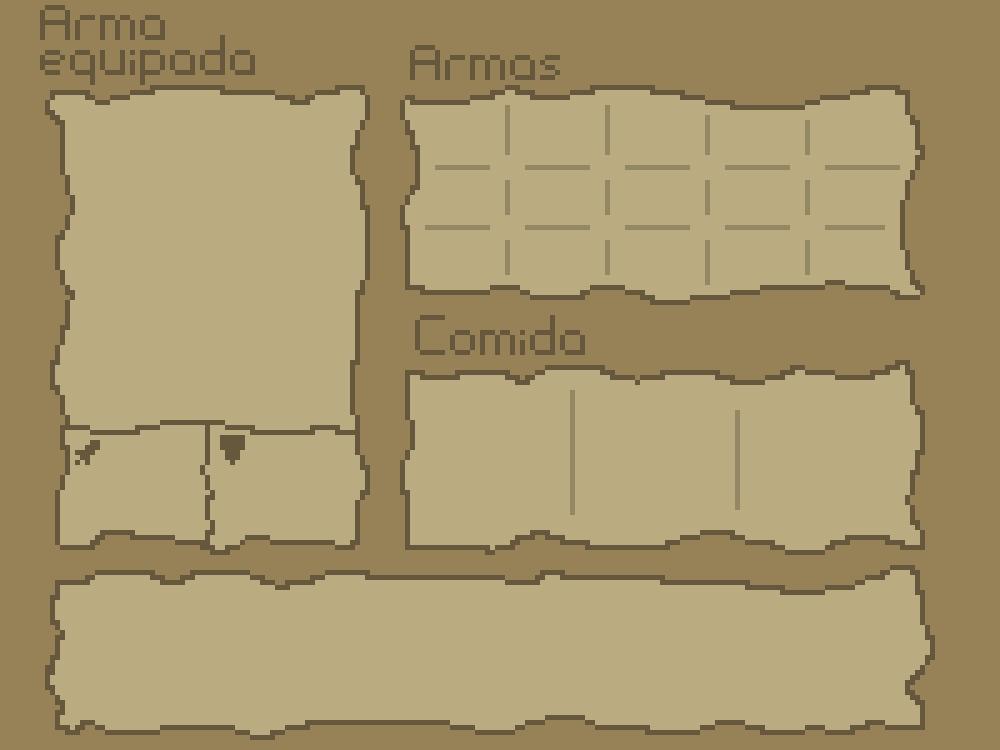
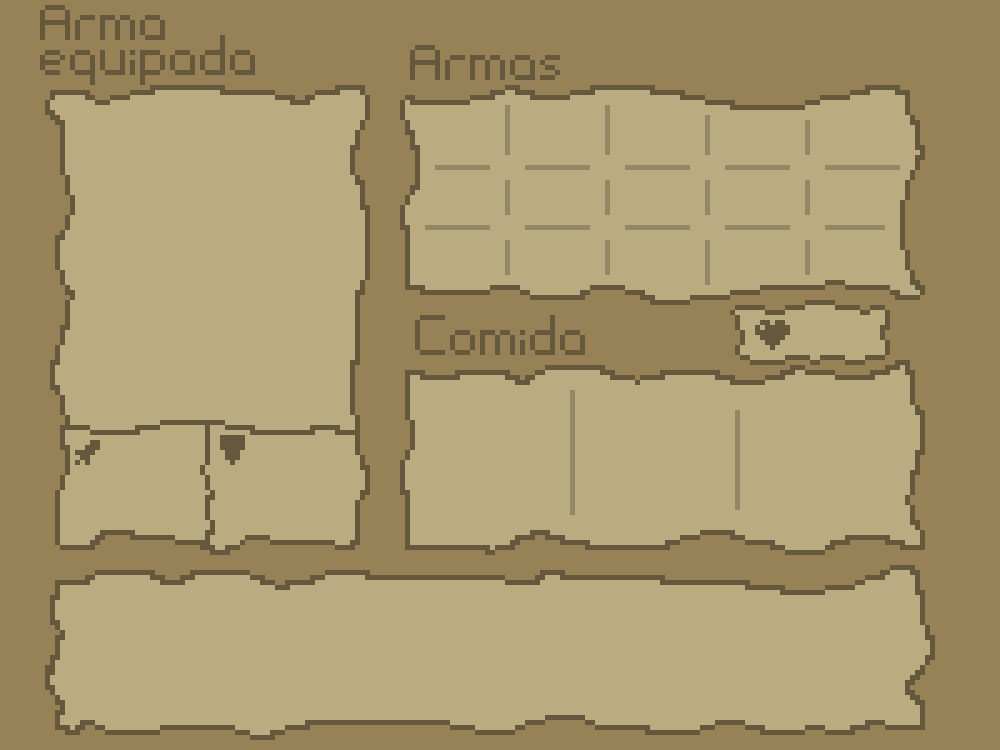
Imgs de items desaparecen, ui y correccioneslógica de item de curación
Ahora los items de curación, al usarse, se borrarán correctamente del inventario, junto a la desaparición de su imagen pero no de sus botones.
Ahora los items de curación mostrarán cuanto recuperan de vida en un nuevo elemento de la interfaz.
Además, se ha quitado el texto que indicaba lo anterior de los items, el texto de las descripciones desaparecerá al dejar de interactuar con el objeto, y se ha comentado código.

Changed region(s): [[0.713, 0.3987, 0.899, 0.4907]]

diff --git a/src/scenes/inventoryScene.js b/src/scenes/inventoryScene.js
@@ -54,6 +54,8 @@ export default class InventoryScene extends Phaser.Scene {
 		this.load.image('caldo', 'assets/scenes/inventory/objects/caldoGallego.png');
 		this.load.image('polbo', 'assets/scenes/inventory/objects/pulpoALaGallega.png');
 		this.load.image('asta', 'assets/scenes/inventory/weapons/astaBandera.png');
+
+		// Recuadro de selección
 		this.load.spritesheet('selected', 'assets/scenes/inventory/selectedItem.png', {frameWidth: 32, frameHeight:32});
 	}
 
@@ -61,15 +63,19 @@ export default class InventoryScene extends Phaser.Scene {
 	* Creación de los elementos de la escena principal de juego
 	*/
 	create() {
-		this.emitter = EventDispatcher.getInstance();
 
 		// BORRAR ESTAS LÍNEAS PARA EL JUEGO FINAL
 		this.inventory.addWeapon('fouc');
 		this.inventory.addWeapon('dagEx');
 		this.inventory.addHealth('polbo');
+		this.inventory.addHealth('caldo');
+		this.inventory.addHealth('bolla');
 
 		// Guardar la escena de la que te han despertado
-		this.events.on('wake', (scene, prev) => {this.previousSceneName = prev});
+		this.events.on('wake', (scene, prev) => {
+			this.previousSceneName = prev;
+			this.keyboardInput.setStartButton(this.equipedWeaponButton);
+		});
 		
 		// Constantes
 		const width = this.scale.width;
@@ -86,11 +92,15 @@ export default class InventoryScene extends Phaser.Scene {
 
 		// ARMA EQUIPADA
 		this.equiped = this.add.image(217, 262, this.inventory.getEquipedWeapon().imgID).setScale(8, 8);
-		this.equipedWeaponButton = new Button(this, 217, 262, 'selected', 0, 1, 2, 
-			this.keyboardInput, () => {
-				if (this.inventory.getEquipedWeapon().imgID !== 'puño' && this.inventory.getEquipedWeapon().imgID !== 'asta')
-				this.selected(this.inventory.getWeapons()['puño'], "W")},
-			() => {this.mostrarDescripcion(this.inventory.getEquipedWeapon())}
+		this.equipedWeaponButton = new Button(this, 217, 262, 'selected', 0, 1, 2, this.keyboardInput,
+			() => {
+				if (this.inventory.getEquipedWeapon().imgID !== 'puño' && this.inventory.getEquipedWeapon().imgID !== 'asta') { // OnClick
+					this.selected(this.inventory.getWeapons()['puño'], "W");
+					this.updateUITexts(this.inventory.getWeapons()['puño'].weapon);
+				}
+			},
+			() => {this.mostrarDescripcion(this.inventory.getEquipedWeapon())},	// OnPointerOver
+			() => {this.resetStatsBox(); this.dialogBox.clearText();} // OnPointerOut
 		).setScale(8, 8);
 
 		this.weaponButtons = [];
@@ -108,18 +118,16 @@ export default class InventoryScene extends Phaser.Scene {
 				if (val.owned) this.add.image(x, y, itemID).setScale(1.5,1.5);
 				this.weaponButtons[val.i][val.j] = new Button(this, x , y, 'selected', 0, 1, 2, this.keyboardInput,
 					() => {this.selected(val, "W")},							// OnClick
-					() => {														// OnPointerOver
-						if (val.owned){
-							this.mostrarDescripcion(val.weapon);
-							this.updateDefAtc(val.weapon);
-						}
-					},
-					() => {this.resetTextBox()}).setScale(1.5,1.5);				// OnPointerOut
+					() => {if (val.owned){ this.mostrarDescripcion(val.weapon); this.updateUITexts(val.weapon);}}, // OnPointerOver
+					() => {this.resetStatsBox(); this.dialogBox.clearText();} // OnPointerOut
+				).setScale(1.5,1.5);
 				i++;
 			}
 		});
 
 		this.foodButtons = [];
+		this.foodImages = [];
+		this.foodTexts = [];
 
 		i = 0;
 		// COMIDA
@@ -128,11 +136,13 @@ export default class InventoryScene extends Phaser.Scene {
 			let itemQuantity = val.amount;
 			
 			let x = val.i * 165 + width / 2; let y = 475;
-			if (val.amount) this.add.image(x, y, itemID).setScale(3, 3);
+			if (val.amount) this.foodImages[val.i] = this.add.image(x, y, itemID).setScale(3, 3);
 			this.foodButtons[val.i] = new Button(this, x, y, 'selected', 0, 1, 2, this.keyboardInput,
-				() => {if (val.amount) this.selected(val.item, "H")},			// OnClick
-				() => {if (val.amount) this.mostrarDescripcion(val.item);}).setScale(3,3); // OnPointerOver
-			if (itemQuantity > 1) this.add.text(x + 5, y + 5, itemQuantity, {}).setScale(3,3);
+				() => {if (val.amount) this.selected(val.item, "H", val.i)},   				// OnClick
+				() => {if (val.amount) { this.mostrarDescripcion(val.item); this.updateUITexts(val);}}, // OnPointerOver
+				() => {this.resetStatsBox(); this.dialogBox.clearText()}					// OnPointerOut
+			).setScale(3,3); 
+			if (val.amount) this.foodTexts[val.i] = this.add.text(x + 5, y + 5, itemQuantity, {fontFamily: 'Silkscreen', fontSize: 40});
 			i++;
 		});
 
@@ -145,8 +155,10 @@ export default class InventoryScene extends Phaser.Scene {
 		this.input.keyboard.once('keydown-ESC', () => { this.escape(); });
 		this.dialogBox = new DialogBox(this, 80, 620, 850).setColor('65583c');
 
+		// Texto de daño, defensa de armas e items de curación
 		this.atcBox = this.add.text(110, 470, this.inventory.getEquipedWeapon().getAttack(), {fontFamily: 'Silkscreen', fontSize: 50, color: '#65583c'});
 		this.defBox = this.add.text(270, 470, this.inventory.getEquipedWeapon().getDefense(), {fontFamily: 'Silkscreen', fontSize: 50, color: '#65583c'});
+		this.healthBox = this.add.text(820, 320, "", {fontFamily: 'Silkscreen', fontSize: 30, color: '#248a00'});
 	}
 
 	// SALIDA DE LA ESCENA
@@ -166,9 +178,10 @@ export default class InventoryScene extends Phaser.Scene {
 		this.dialogBox.printText();
 	}
 
-	// Gestiona si, al elegirse un arma, debe volver a la escena anterior haciendo el cambio en esa escena (battleScene) o si debe mantenerse 
-	// en la escena de inventario haciendo el cambio aquí (levelMenuScene)
-	selected(val, type) {
+	// Gestiona si, al elegirse un arma o un objeto curativo, debe volver a la escena anterior haciendo el cambio en esa escena (battleScene)
+	// o si debe mantenerse en la escena de inventario haciendo el cambio aquí (levelMenuScene)
+	selected(val, type, index = 0) {
+		 // ARMA
 		if (type === "W") {
 			if (val.owned && this.inventory.getEquipedWeapon().imgID !== val.weapon.imgID && this.inventory.getEquipedWeapon().imgID !== 'asta') {
 				// Cambiar imagen al haber elegido un arma	
@@ -178,41 +191,67 @@ export default class InventoryScene extends Phaser.Scene {
 				if (this.previousSceneName === 'battleScene') this.escape(val.weapon);
 				else this.inventory.setEquipedWeapon(val.weapon.imgID);
 			}
-		} else {
+		}
+
+		// CURACIÓN
+		else {
 			// Usar el objeto curativo
-			if (this.previousSceneName === 'battleScene') this.escape(val);
+			if (this.previousSceneName === 'battleScene') {
+				// Comprobar si hay en el inventario
+				if (this.inventory.healths[val.imgID].amount > 0) {	
+					// Eliminar del inventario
+					this.inventory.substractHealth(val.imgID);
+					
+					// Si el valor al reducir el tamaño es 0, borrar imagen y texto
+					if (this.inventory.healths[val.imgID].amount < 1) {
+						this.foodImages[index].destroy();
+						this.foodTexts[index].setText("");
+					}
+					// Si no, solo cambiamos el texto a la nueva cantidad
+					else this.foodTexts[index].setText(this.inventory.healths[val.imgID].amount);
+					
+					this.escape(val);
+				}
+			}
 			else {
 				// Evitar que el jugador use el obejto fuera de la escena de batalla
 				this.dialogBox.setTextToDisplay("Mejor no uses el/la " + val.name + " ahora, te será más útil en batalla");
 				this.dialogBox.printText();
 			};
 		}
-		
 	}
 
-	// Actualiza el texto de ataque y defensa del arma equipada para mostar la diferencia
-	updateDefAtc(weapon) {
-		var actual = this.inventory.getEquipedWeapon();
+	// Actualiza el texto de ataque y defensa del arma equipada para mostar la diferencia, o añade el texto de un item curativo
+	updateUITexts(item) {
+		// ARMA
+		if (item.type === "WEAPON") {
+			var actual = this.inventory.getEquipedWeapon();
+			var weapon = item;
 
-		// Ataque
-		if (weapon.getAttack() > actual.getAttack()) this.atcBox.setColor('#248a00');
-		else if (weapon.getAttack() < actual.getAttack()) this.atcBox.setColor('#e63d00');
+			// Ataque
+			if (weapon.getAttack() > actual.getAttack()) this.atcBox.setColor('#248a00');
+			else if (weapon.getAttack() < actual.getAttack()) this.atcBox.setColor('#e63d00');
 
-		// Defensa
-		if (weapon.getDefense() > actual.getDefense()) this.defBox.setColor('#248a00');
-		else if (weapon.getDefense() < actual.getDefense()) this.defBox.setColor('#e63d00');
+			// Defensa
+			if (weapon.getDefense() > actual.getDefense()) this.defBox.setColor('#248a00');
+			else if (weapon.getDefense() < actual.getDefense()) this.defBox.setColor('#e63d00');
 
-		// Actualizar texto con el nuevo arma
-		this.atcBox.setText(weapon.getAttack());
-		this.defBox.setText(weapon.getDefense());
+			// Actualizar texto con el nuevo arma
+			this.atcBox.setText(weapon.getAttack());
+			this.defBox.setText(weapon.getDefense());
+		}
+
+		// CURACIÓN
+		else this.healthBox.setText("+" + item.item.getHealthValue());
 	}
 
-	// Devuelve el texto de ataque y defensa a su estado inicial
-	resetTextBox() {
+	// Devuelve el texto de ataque, defensa y curación a su estado inicial
+	resetStatsBox() {
 		this.atcBox.setText(this.inventory.getEquipedWeapon().getAttack());
 		this.atcBox.setColor('#65583c');
 		this.defBox.setText(this.inventory.getEquipedWeapon().getDefense());
 		this.defBox.setColor('#65583c');
+		this.healthBox.setText("");
 	}
 
 	// Inicializar conexiones de los botones para el input por teclado

diff --git a/src/scenes/battleScene.js b/src/scenes/battleScene.js
@@ -263,7 +263,7 @@ export default class BattleScene extends Phaser.Scene {
 		switch (action){									
 			
       		case 'attack' : 															// Se selecciona atacar
-				this.UpdateQueLocura(100)																
+				this.UpdateQueLocura(35)																
 				this.dialogBox.clearText();												// Borrar texto previo
 				if (this.enemies.length > 1) {											// Si hay más de un enemigo en escena
 					this.dialogBox.setTextToDisplay('Selecciona a un enemigo');	
@@ -356,10 +356,10 @@ export default class BattleScene extends Phaser.Scene {
 		if (!index) index = 0;
 		// Si el enemigo sigue vivo hace su acción
 		if (!levelFailed(this.enemies[index]) && !this.enemies[index].isStuned()) {
-			this.dialogBox.clearText();                           // Borrar texto previo
+			this.dialogBox.clearText();                           	// Borrar texto previo
 			if (this.enemies.length <= 1) this.dialogBox.setTextToDisplay(this.enemies[index].getName() + ' ataca a Maria Pita'); // Enviar el nuevo texto
 			else this.dialogBox.setTextToDisplay(this.enemies[index].getName() + ' (' +  index + ')' +' ataca a Maria Pita');	
-			this.emitter.once('finishTexting', () => {						// Crea un evento para que el enemigo ataque
+			this.emitter.once('finishTexting', () => {				// Crea un evento para que el enemigo ataque
 				
 				// Guarda el daño hecho o el daño y un texto si se ha usado una habilidad
 				let attack = this.enemies[index].attack(this.player);
@@ -370,7 +370,7 @@ export default class BattleScene extends Phaser.Scene {
 					index++;
 					
 					if (levelFailed(this.player)) {
-						this.dialogBox.clearText();																	// Borrar texto previo
+						this.dialogBox.clearText();					// Borrar texto previo
 						this.time.delayedCall(2000,()=>{this.scene.start('GameOverScene', {level: this.level, inventoryBackup: this.inventoryBackup, inventory: this.player.inventory});});
 					}
 					else if (index < this.enemies.length) {this.emitter.once('finishTurn', () => {this.EnemyTurn(index)});} 	//Se llama al ataque de los demas enemigos

diff --git a/src/data/listOfItems.js b/src/data/listOfItems.js
@@ -124,17 +124,17 @@ export var listOfItems = {
 		{key: "Bolla de pan",
 		imgID: "bolla", 
 		heal: 20,
-		desc: "Bolla de pan calentita y crujiente. Cura 20 de vida"},
+		desc: "Bolla de pan calentita y crujiente"},
 
 		{key: "Caldo gallego",
 		imgID: "caldo", 
 		heal: 40,
-		desc: "Caldo gallego típico de la zona, de lo mejorcito que puedes encontrar. Cura 40 de vida"},
+		desc: "Caldo gallego típico de la zona, de lo mejorcito que puedes encontrar"},
 		
 		{key: "Polbo á feira",
 		imgID: "polbo", 
 		heal: 60,
-		desc: "Polbo á feira, el plato tradicional por excelencia de la zona, un manjar en toda regla. Cura 60 de vida"},
+		desc: "Polbo á feira, el plato tradicional por excelencia de la zona, un manjar en toda regla"},
 	]
 }
 

diff --git a/src/input/button.js b/src/input/button.js
@@ -35,9 +35,9 @@ export class Button extends Phaser.GameObjects.Sprite {
         this._functionToDo();
     }
     onOver() {
-        if (this._functionOnOver) this._functionOnOver();
         if (this.keyboardInput) this.keyboardInput.changeButton(this);
         else this.selectButton();
+        if (this._functionOnOver) this._functionOnOver();
     }
     onPointerOut() {
         if(this._functionOnOut) this._functionOnOut();
